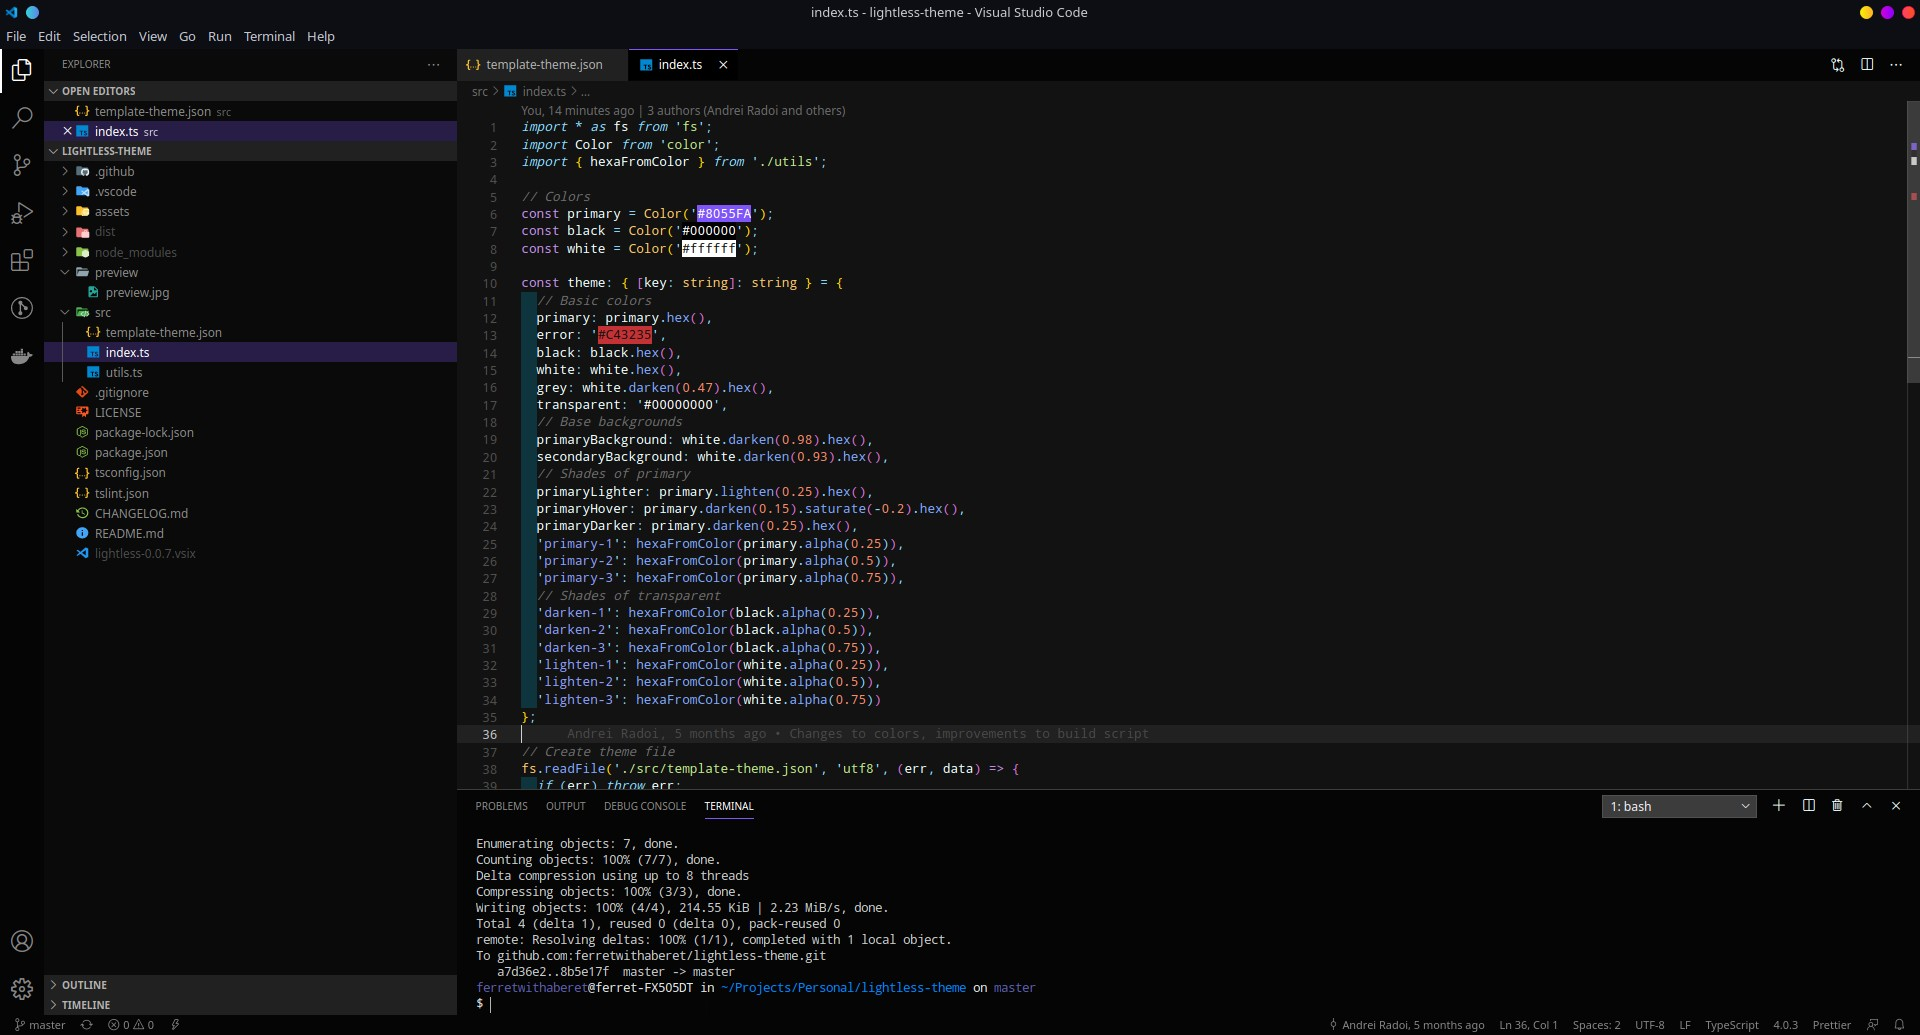
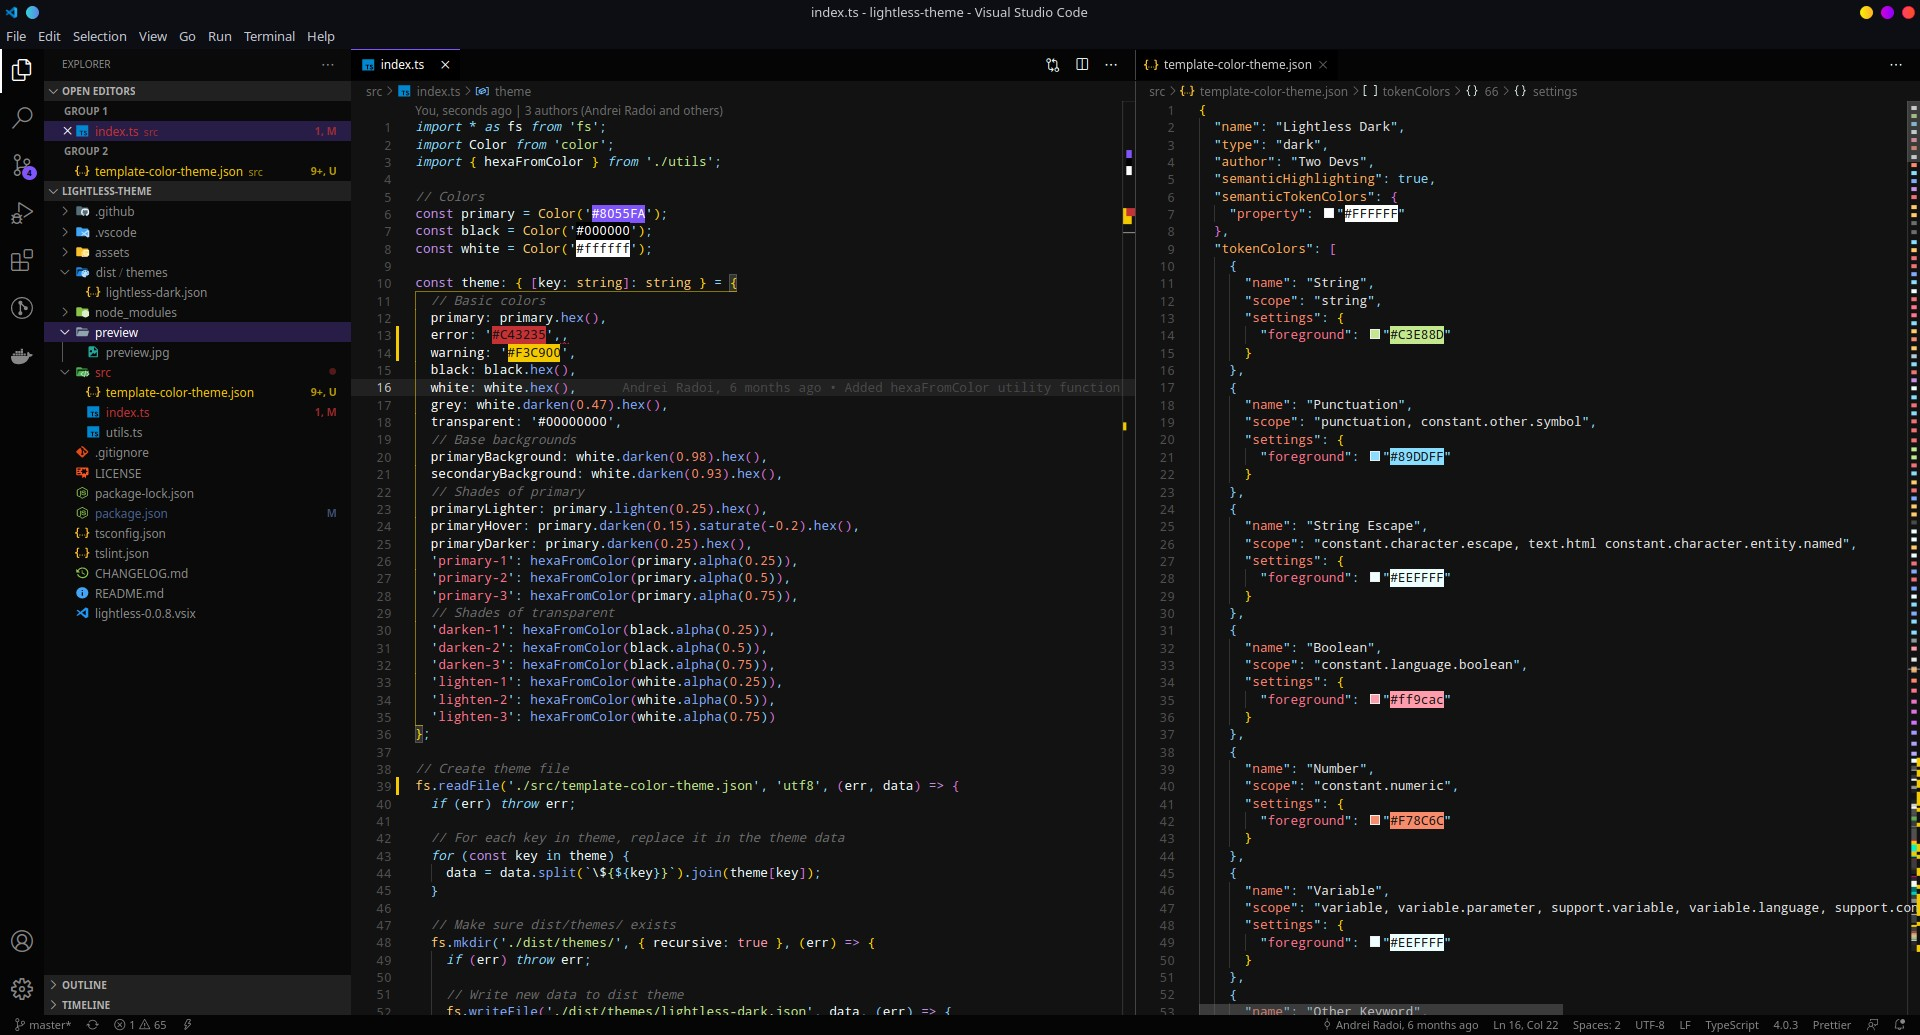
Changed JSON key colors to actually look good, made strings be light gray in JSON, in JS(and maybe some other languages) the last property in a chain is now a different color

diff --git a/src/index.ts b/src/index.ts
@@ -11,6 +11,7 @@ const theme: { [key: string]: string } = {
   // Basic colors
   primary: primary.hex(),
   error: '#C43235',
+  warning: '#F3C900',
   black: black.hex(),
   white: white.hex(),
   grey: white.darken(0.47).hex(),
@@ -35,7 +36,7 @@ const theme: { [key: string]: string } = {
 };
 
 // Create theme file
-fs.readFile('./src/template-theme.json', 'utf8', (err, data) => {
+fs.readFile('./src/template-color-theme.json', 'utf8', (err, data) => {
   if (err) throw err;
 
   // For each key in theme, replace it in the theme data
